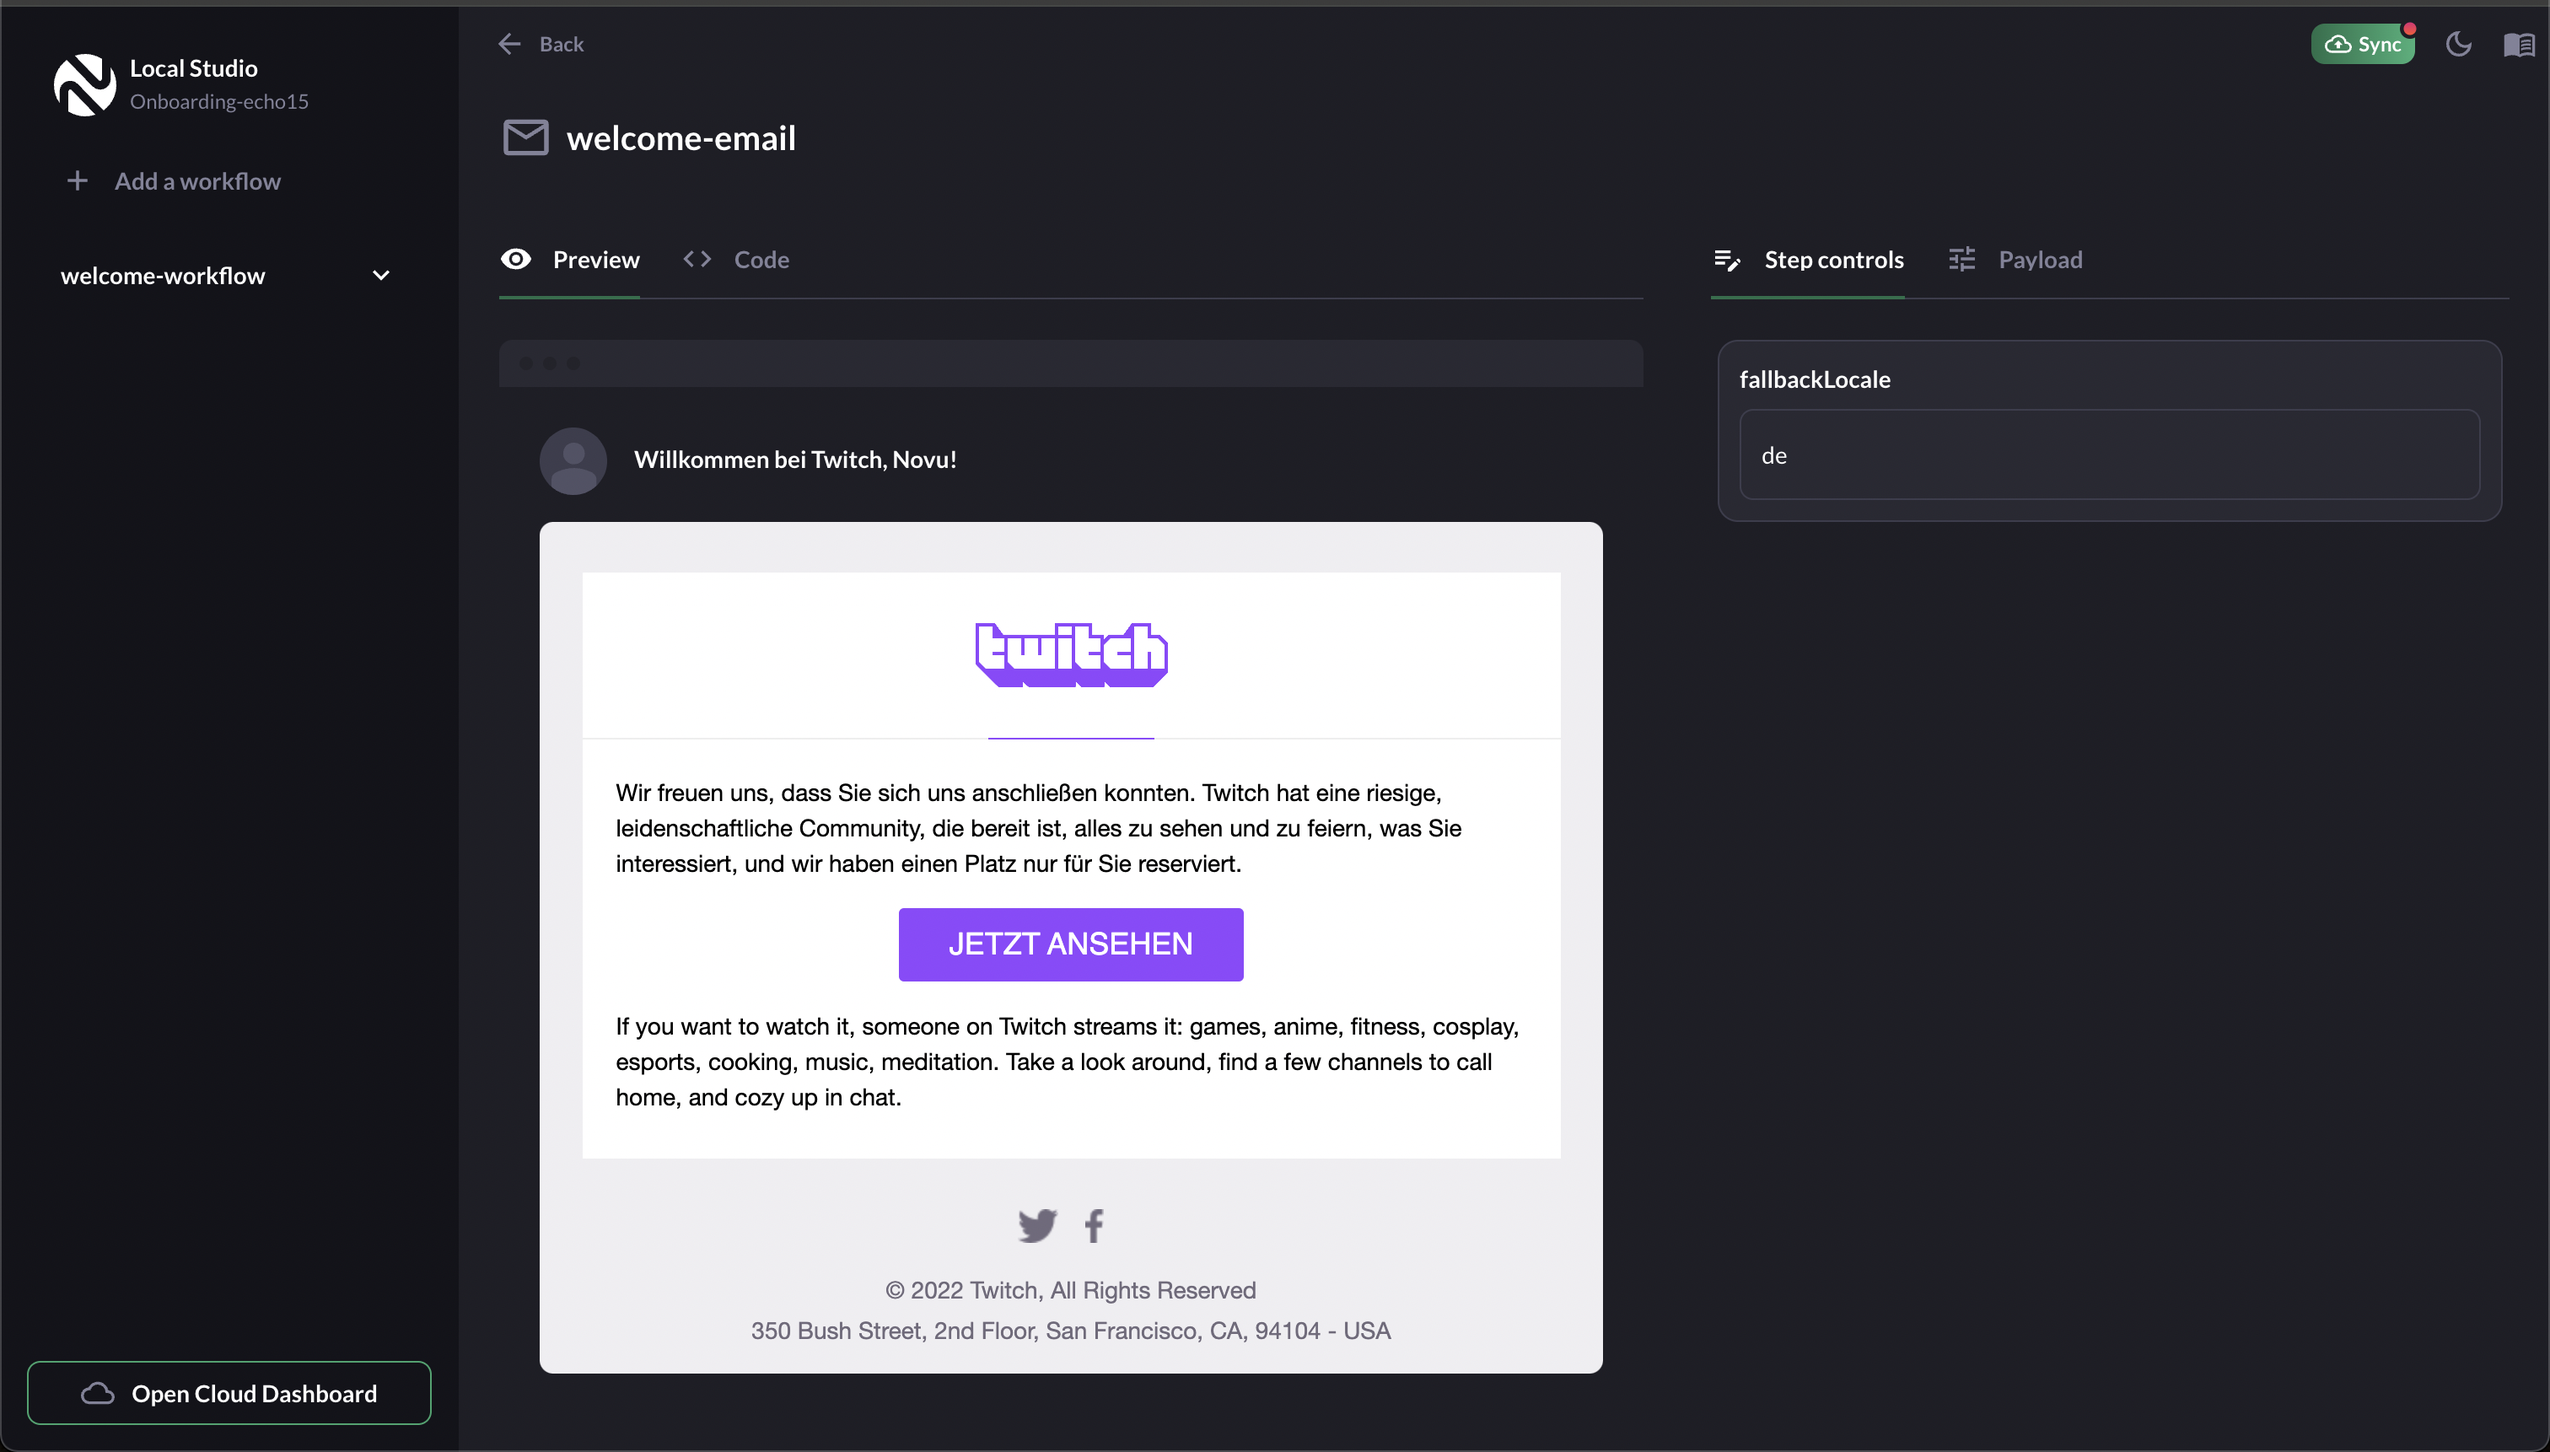
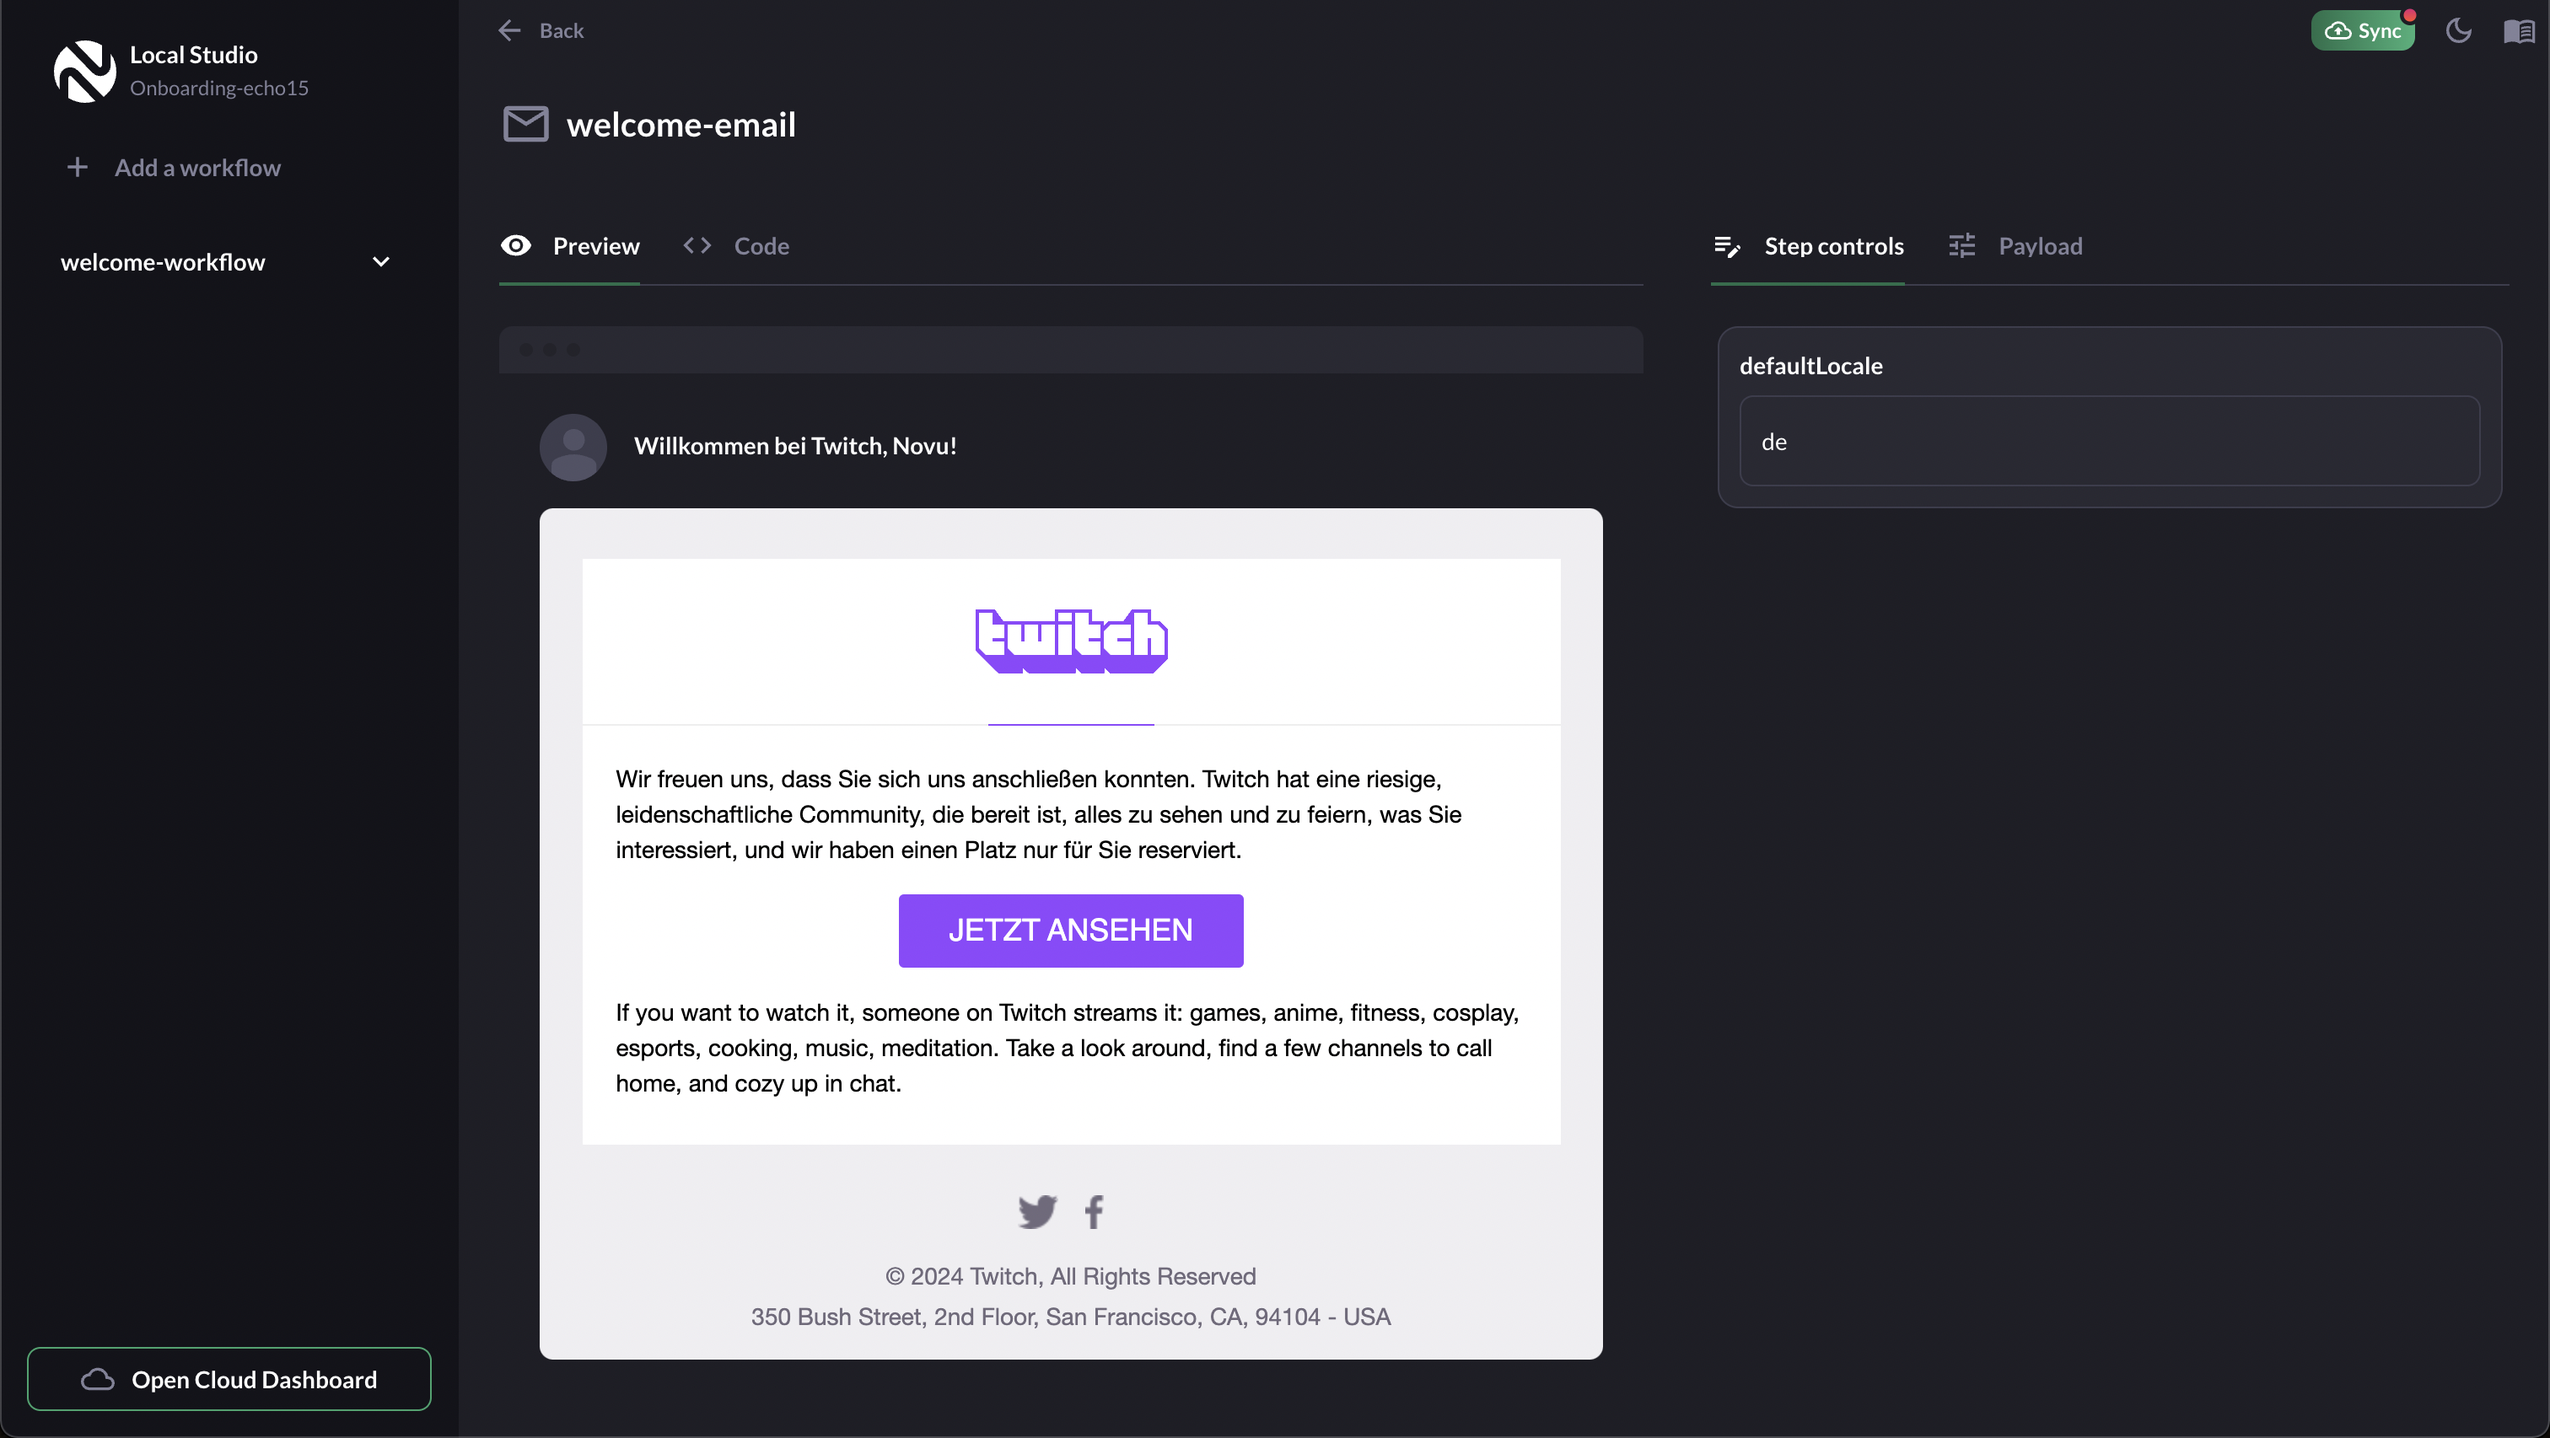
fix: after pr comments

diff --git a/novu-workflows/react/translation/app/novu/workflows/translation/workflow.ts b/novu-workflows/react/translation/app/novu/workflows/translation/workflow.ts
@@ -8,20 +8,20 @@ i18next.init({
     en: {
       translation: {
         welcomeEmailSubject: 'Welcome to Twitch, {{username}}!',
-        welcomeEmailBody:
+        welcomeEmailIntroduction:
           'We’re glad you could join us. Twitch has a huge, passionate community ready to watch and celebrate all the things you’re into, and we’ve saved a seat just for you.',
         linkText: 'WATCH NOW',
-        welcomeEmailBody2:
+        welcomeEmailConclusion:
           'If you want to watch it, someone on Twitch streams it: games, anime, fitness, cosplay, esports, cooking, music, meditation. Take a look around, find a few channels to call home, and cozy up in chat.',
       },
     },
     de: {
       translation: {
         welcomeEmailSubject: 'Willkommen bei Twitch, {{username}}!',
-        welcomeEmailBody:
+        welcomeEmailIntroduction:
           'Wir freuen uns, dass Sie sich uns anschließen konnten. Twitch hat eine riesige, leidenschaftliche Community, die bereit ist, alles zu sehen und zu feiern, was Sie interessiert, und wir haben einen Platz nur für Sie reserviert.',
         linkText: 'JETZT ANSEHEN',
-        welcomeEmailBody2:
+        welcomeEmailConclusion:
           'If you want to watch it, someone on Twitch streams it: games, anime, fitness, cosplay, esports, cooking, music, meditation. Take a look around, find a few channels to call home, and cozy up in chat.',
       },
     },
@@ -35,23 +35,23 @@ export const welcomeWorkflow = workflow(
       'welcome-email',
       async (controls) => {
         const translate = i18next.getFixedT(
-          subscriber?.locale || controls.fallbackLocale
+          subscriber?.locale || controls.defaultLocale
         );
 
         const subject = translate('welcomeEmailSubject', {
           username: subscriber?.username || 'Novu',
         });
-        const body = translate('welcomeEmailBody');
+        const welcomeEmailIntroduction = translate('welcomeEmailIntroduction');
         const linkText = translate('linkText');
-        const body2 = translate('welcomeEmailBody2');
+        const welcomeEmailConclusion = translate('welcomeEmailConclusion');
         return {
           subject,
-          body: renderEmail(subject, body, linkText, body2),
+          body: renderEmail(subject, welcomeEmailIntroduction, linkText, welcomeEmailConclusion),
         };
       },
       {
         controlSchema: z.object({
-          fallbackLocale: z.string().default('en').optional(),
+          defaultLocale: z.string().default('en').optional(),
         }),
       }
     );

diff --git a/novu-workflows/react/translation/app/novu/emails/welcome-email.tsx b/novu-workflows/react/translation/app/novu/emails/welcome-email.tsx
@@ -64,7 +64,7 @@ export const TwitchResetPasswordEmail = ({
           </Row>
           <Row>
             <Text style={{ textAlign: 'center', color: '#706a7b' }}>
-              © 2022 Twitch, All Rights Reserved <br />
+              © {new Date().getFullYear()} Twitch, All Rights Reserved <br />
               350 Bush Street, 2nd Floor, San Francisco, CA, 94104 - USA
             </Text>
           </Row>
